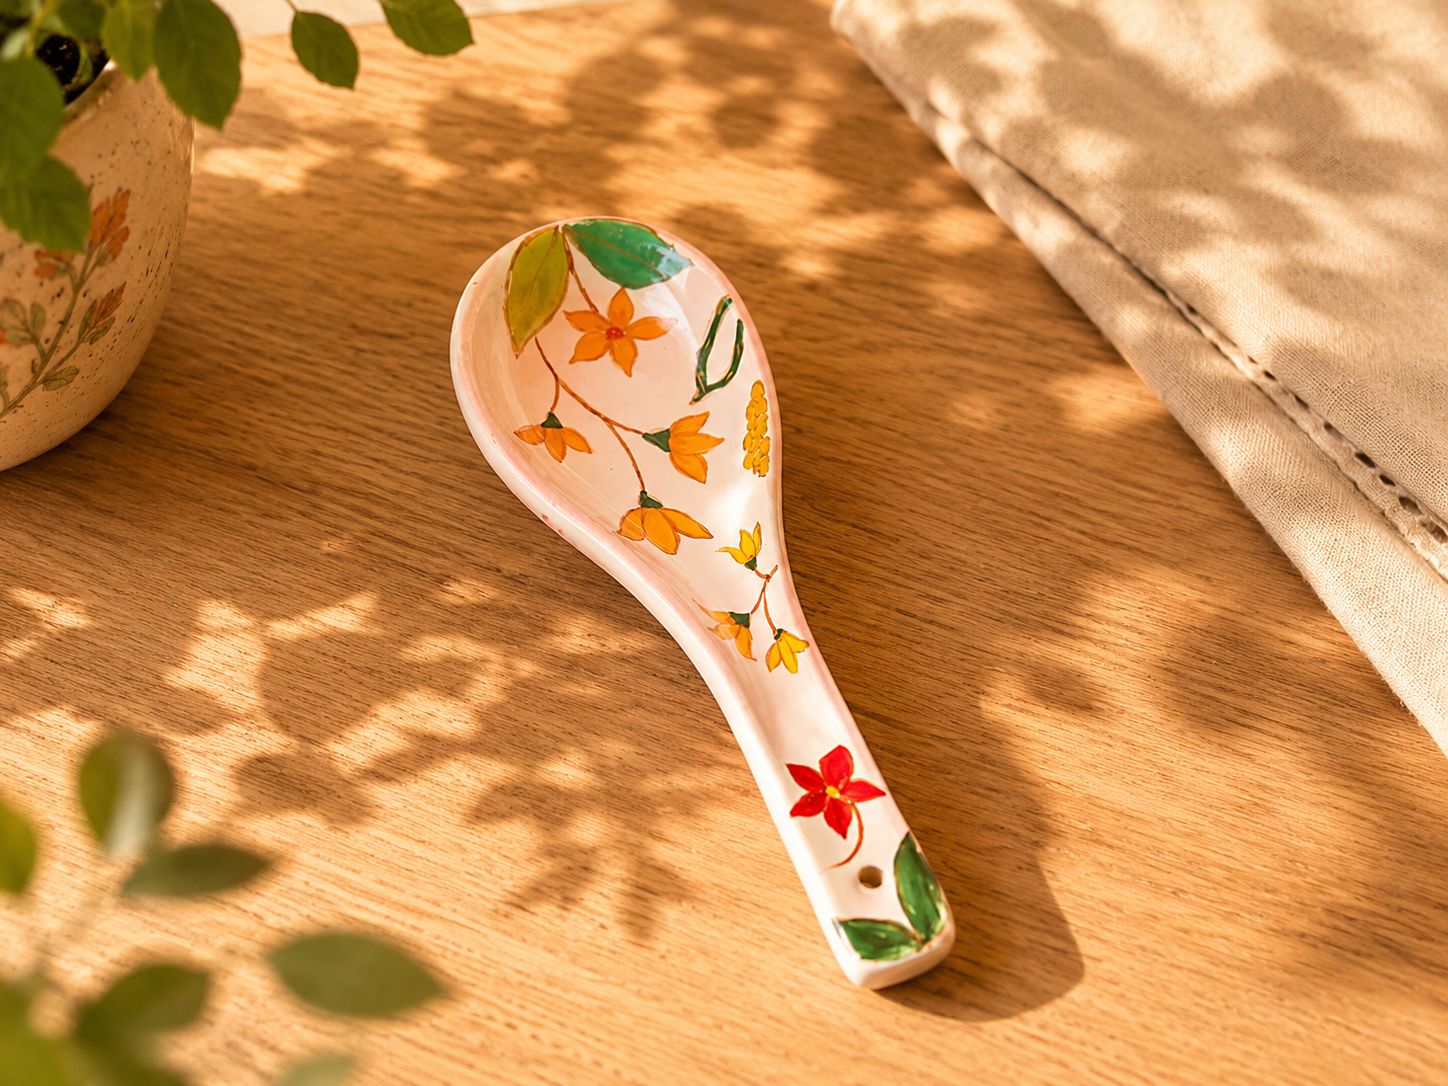
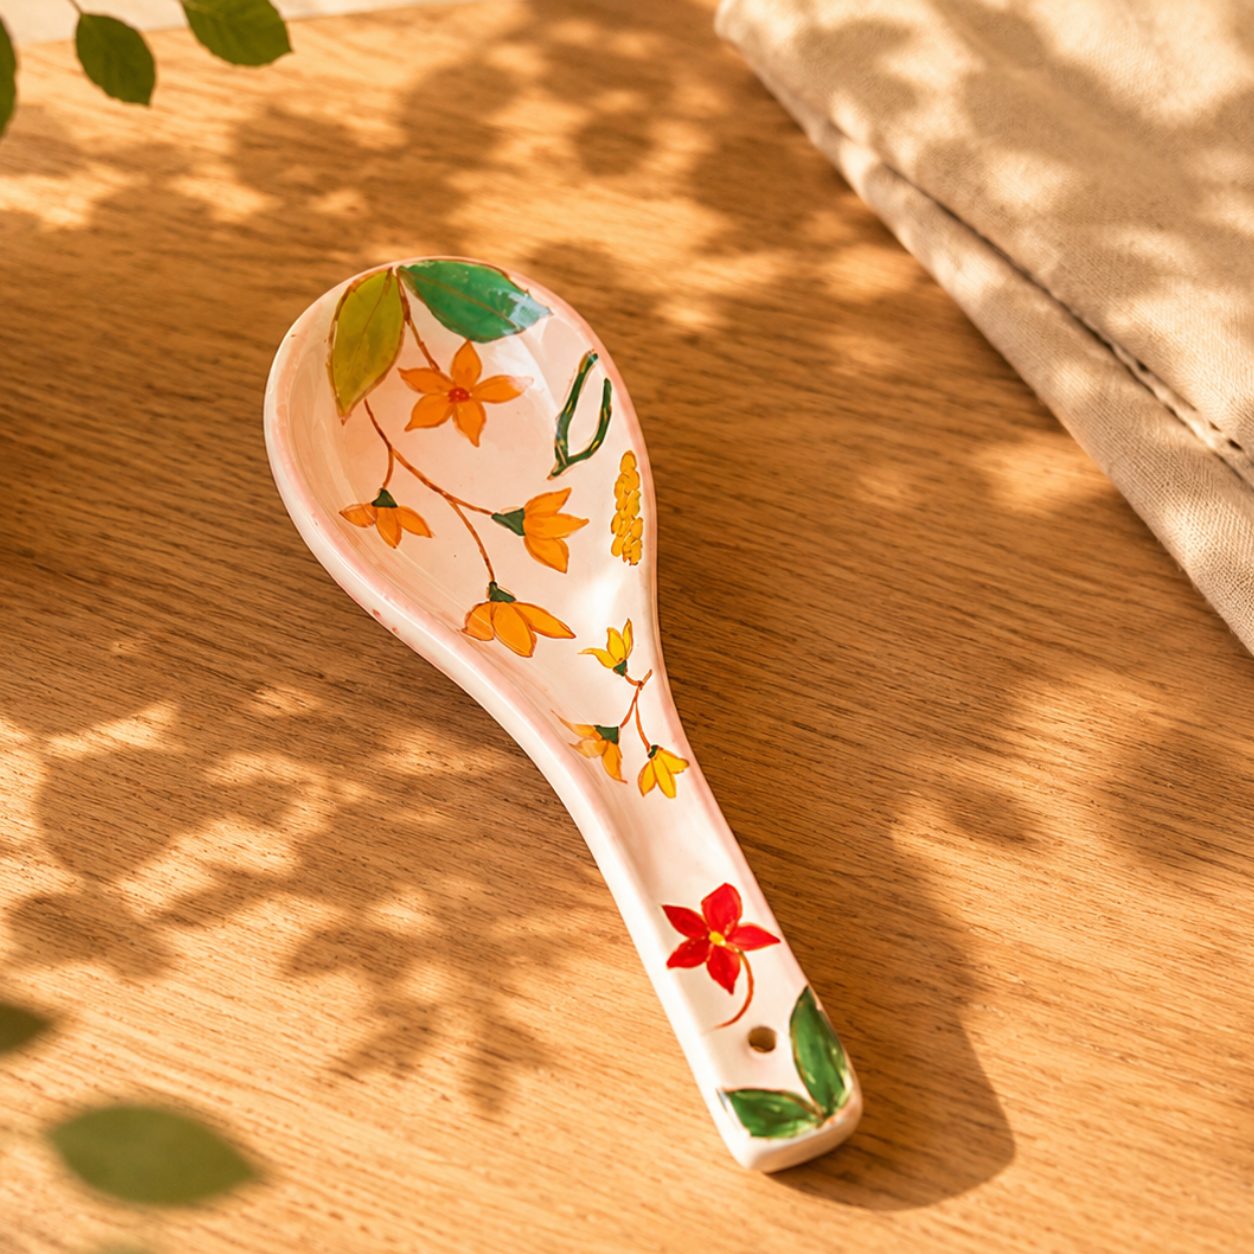
fixed

diff --git a/app/components/TarjetaPieza.js b/app/components/TarjetaPieza.js
@@ -7,12 +7,24 @@ export default function TarjetaPieza({ pieza }) {
       <article style={{ cursor: 'pointer' }}>
         {/* Imagen */}
         <div style={{
-          backgroundColor: '#DDD5C8',
-          paddingBottom: '133%',
           position: 'relative',
-          overflow: 'hidden',
           marginBottom: '1rem',
+          aspectRatio: '4/5',
+          overflow: 'hidden',
+          backgroundColor: 'var(--crema-2)',
         }}>
+          {pieza.imagenes?.[0] ? (
+            <Image
+              src={pieza.imagenes[0]}
+              alt={pieza.nombre}
+              fill
+              style={{ objectFit: 'cover', objectPosition: pieza.imagenPosicion || 'center' }}
+              sizes="(max-width: 768px) 100vw, 33vw"
+            />
+          ) : (
+            <div style={{ backgroundColor: '#DDD5C8', aspectRatio: '1', width: '100%' }} />
+          )}
+
           {!pieza.disponible && (
             <div style={{
               position: 'absolute',
@@ -29,17 +41,6 @@ export default function TarjetaPieza({ pieza }) {
               Agotada
             </div>
           )}
-
-          
-          {pieza.imagenes?.[0] ? (
-            <Image
-              src={pieza.imagenes[0]}
-              alt={pieza.nombre}
-              fill
-              style={{ objectFit: 'cover' }}
-              sizes="(max-width: 768px) 100vw, 33vw"
-            />
-          ) : null}
         </div>
 
         {/* Info */}
@@ -71,7 +72,7 @@ export default function TarjetaPieza({ pieza }) {
             fontWeight: 300,
           }}>
             {pieza.disponible
-              ? `$${pieza.precio.toLocaleString('es-CL')}`
+              ? `$${pieza.precio.toLocaleString('es-CL')}${pieza.precioLabel ? ` ${pieza.precioLabel}` : ''}`
               : 'Sin stock'}
           </p>
         </div>

diff --git a/app/data/piezas.js b/app/data/piezas.js
@@ -9,6 +9,7 @@ export const PIEZAS = [
     slug: 'pieza-01',
     nombre: 'Plato picoteo nativa',
     subtitulo: 'Cerámica pintada a mano con esmalte',
+    cuadrado: true,
     precio: 17000,
     disponible: true,
     unidades: 1,
@@ -61,6 +62,8 @@ export const PIEZAS = [
     slug: 'pieza-08',
     nombre: 'Jarrito Greco',
     subtitulo: 'Cerámica pintada a mano con esmalte',
+    cuadrado: true,
+    imagenPosicion: 'center top',
     precio: 10000,
     disponible: true,
     unidades: 1,
@@ -152,6 +155,7 @@ export const PIEZAS = [
     slug: 'pieza-03',
     nombre: 'Picoteo Sweet',
     subtitulo: 'Cerámica pintada a mano con esmalte',
+    cuadrado: false,
     precio: 13000,
     disponible: true,
     unidades: 1,
@@ -164,14 +168,14 @@ export const PIEZAS = [
     proceso: 'Pieza seleccionada → Diseño del motivo → Pintado a mano con esmalte cerámico',
   },
   {
-    slug: 'pieza-04',
+    slug: 'pieza-28',
     nombre: 'Paleta Gallo',
     subtitulo: 'Cerámica pintada a mano con esmalte',
     precio: 35000,
-    disponible: false,
+    disponible: true,
     unidades: 0,
     moods: ['decoracion'],
-    imagenes: ['/piezas/pieza_04.png', '/piezas/pieza_04.png'],
+    imagenes: ['/piezas/pieza_28.png', '/piezas/pieza_28.png'],
     paleta: ['#A8B8C4', '#7A94A4', '#D4E0E8'],
     descripcion: 'Plato pintado a mano. El motivo se adapta a la forma de la pieza — ninguno sale exactamente igual porque ninguno se diseña igual.',
     dimensiones: '20 cm diámetro · 5 cm hondo',
@@ -300,13 +304,14 @@ export const PIEZAS = [
   },
   {
     slug: 'pieza-25',
-    nombre: 'Pieza 25',
+    nombre: 'Anillero Gato',
     subtitulo: 'Cerámica pintada a mano con esmalte',
-    precio: 20000,
+    precio: 10000,
+    precioLabel: 'c/u', 
     disponible: true,
     unidades: 1,
     moods: ['cocina-calida'],
-    imagenes: ['/piezas/pieza_25.png'],
+    imagenes: ['/piezas/pieza_30.png'],
     descripcion: 'Descripción de la pieza.',
     cuidado: 'Apto lavavajillas.',
     proceso: 'Pieza seleccionada → Diseño del motivo → Pintado a mano con esmalte cerámico',